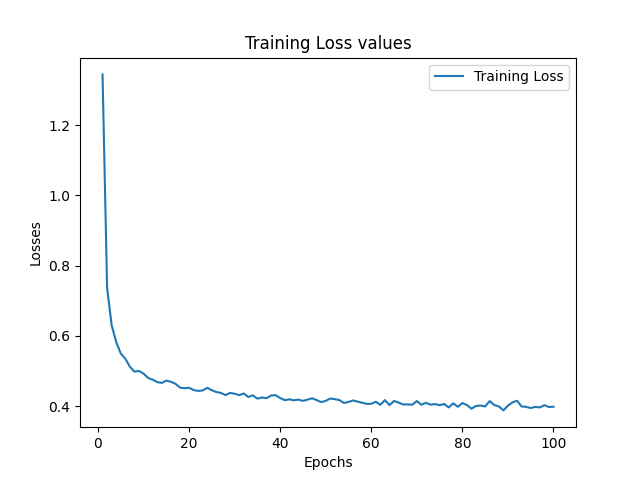
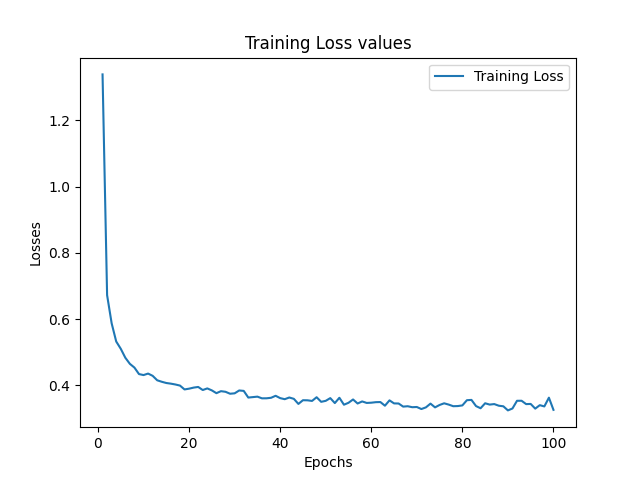
Updated results. Got EMNIST working with the project. Needed to make custom ImageFolder to read numerically instead of lexicographically.

diff --git a/train_lenet.py b/train_lenet.py
@@ -44,13 +44,13 @@ def get_dataloaders(Data_Set_Type, train_download_path, test_download_path, vali
     '''
     ds_test = Data_Set_Type(test_download_path, download=True, train = False, transform=MNIST_TRANSFORM) \
                 if split == None else \
-                Data_Set_Type(test_download_path, download=True, train = False, split = split, transform=MNIST_TRANSFORM)
+                Data_Set_Type(test_download_path, download=True, train = False, split = split, transform=EMNIST_TRANSFORM)
 
     dl_test = DataLoader(ds_test, batch_size=MNIST_BATCH_SIZE, shuffle = False, num_workers = 4)
 
-    ds_train = Data_Set_Type(train_download_path, download=True, transform=MNIST_TRANSFORM) \
+    ds_train = Data_Set_Type(train_download_path, download=True, train = True, transform=MNIST_TRANSFORM) \
                 if split == None else \
-                Data_Set_Type(train_download_path, download=True, split = split, transform=MNIST_TRANSFORM)    
+                Data_Set_Type(train_download_path, download=True, train = True, split = split, transform=EMNIST_TRANSFORM)    
 
     ds_valid = None
     if validate:
@@ -67,7 +67,7 @@ def get_dataloaders(Data_Set_Type, train_download_path, test_download_path, vali
     return dl_train, dl_valid, dl_test, ds_name
 
 def run_trad_lenet(dl_train, dl_valid, dl_test, save_path, save_visual_name, ds_name, num_classes,
-                 early_stopping = False, validate = False, pad_first_conv = True):
+                 early_stopping = False, validate = False, pad_first_conv = True, add_normalization = False):
     """
     Args: 
     - dl_train: data loader instance with our training information.
@@ -80,6 +80,7 @@ def run_trad_lenet(dl_train, dl_valid, dl_test, save_path, save_visual_name, ds_
     - validate: should the model perform validation after each epoch
     - pad_first_conv: boolean to determine if the first convolution layer should be padded or not. If
             the first convolution layer is padded, then an additional pooling layer is added.
+    - add_normalization: boolean to determine if dropout should be used in the linear layers
     """
     model = LeNet_5(dl_train, 
                     dl_valid,
@@ -89,7 +90,8 @@ def run_trad_lenet(dl_train, dl_valid, dl_test, save_path, save_visual_name, ds_
                     Tanh,
                     save_path,
                     pad_first_conv=pad_first_conv,
-                    early_stopping=early_stopping
+                    early_stopping=early_stopping,
+                    add_normalization=add_normalization
      )
 
     model.to(device)
@@ -99,7 +101,7 @@ def run_trad_lenet(dl_train, dl_valid, dl_test, save_path, save_visual_name, ds_
 
 
 def run_modern_lenet(dl_train, dl_valid, dl_test, save_path, save_visual_name, ds_name, num_classes,
-                     early_stopping = False, validate = False, pad_first_conv = False):
+                     early_stopping = False, validate = False, pad_first_conv = False, add_normalization = True):
     """
     Args: 
     - dl_train: data loader instance with our training information.
@@ -111,6 +113,8 @@ def run_modern_lenet(dl_train, dl_valid, dl_test, save_path, save_visual_name, d
     - early_stopping: should the model stop training early if validation loss increases.
     - validate: should the model perform validation after each epoch
     - pad_first_conv: boolean to determine if the first convolution layer should be padded or not. If
+            the first convolution layer is padded, then an additional pooling layer is added.
+    - add_normalization: boolean to determine if dropout should be used in the linear layers
     """ 
      
     model = LeNet_5(dl_train,
@@ -121,7 +125,8 @@ def run_modern_lenet(dl_train, dl_valid, dl_test, save_path, save_visual_name, d
                     ReLU,
                     save_path,
                     pad_first_conv=pad_first_conv,
-                    early_stopping=early_stopping
+                    early_stopping=early_stopping,
+                    add_normalization=add_normalization
     )
 
     model = model.to(device)
@@ -131,7 +136,7 @@ def run_modern_lenet(dl_train, dl_valid, dl_test, save_path, save_visual_name, d
 
 if __name__ == "__main__":
 
-    # For traditional LeNet with regular mnist
+    '''# For traditional LeNet with regular mnist
     dl_train, dl_valid, dl_test, ds_name = get_dataloaders(MNIST, MNIST_TRAIN_PATH, MNIST_TEST_PATH, False)
     run_trad_lenet(dl_train, 
                     dl_valid, 
@@ -150,7 +155,7 @@ if __name__ == "__main__":
                     TRAD_LENET_FASH_MNIST_PATH,
                     "Trad_LeNet_fash_mnist.png", 
                     ds_name,
-                     10)
+                     10)'''
 
     # For traditional LeNet with emnist
     dl_train, dl_valid, dl_test, ds_name = get_dataloaders(EMNIST, EMNIST_TRAIN_PATH, EMNIST_TEST_PATH, False, "balanced")
@@ -162,7 +167,7 @@ if __name__ == "__main__":
                     ds_name, 
                     47)
 
-    # For Modern LeNet with regular mnist
+    '''# For Modern LeNet with regular mnist
     dl_train, dl_valid, dl_test, ds_name = get_dataloaders(MNIST, MNIST_TRAIN_PATH, MNIST_TEST_PATH, False)
     run_modern_lenet(dl_train,
                     dl_valid, dl_test,
@@ -189,5 +194,5 @@ if __name__ == "__main__":
                     MOD_LENET_EMNIST_PATH,
                     "Modern_LeNet_emnist.png",
                     ds_name,
-                    47)
+                    47)'''
 

diff --git a/LeNet.py b/LeNet.py
@@ -2,6 +2,7 @@
 # Version: 12/6/2022
 
 import torch
+from torch.autograd import Variable
 from torch.nn import Linear, Conv2d, Sequential, Dropout
 from torch.nn import Module, Softmax, CrossEntropyLoss, Flatten
 from utils import device, MODELS_DIR
@@ -24,6 +25,7 @@ class LeNet_5(Module):
         - pooling_type: a reference (not instance) to the type of pooling layer to use (e.g. MaxPool2d, AvgPool2d).
         - activ_func: a reference (not instance) to the type of activation function to use.
         - save_path: file path to save this model after an epoch.
+        - add_normalization: boolean to determine if dropout is using in the linear layers.
         - pad_first_conv: boolean to determine if the first convolution layer should be padded or not. If
             the first convolution layer is padded, then an additional pooling layer is added.
         - early_stopping: should the model stop training early if validation loss increases.
@@ -40,22 +42,22 @@ class LeNet_5(Module):
             new_file_name = "early_" + save_path.split("\\")[-1]
             self._save_path = os.path.join(MODELS_DIR, new_file_name)
 
-        self.__init_model(Pooling_Type, Activ_Func_Type, pad_first_conv)
+        self.__init_model(Pooling_Type, Activ_Func_Type, pad_first_conv, add_normalization)
 
-    def __init_model(self, Pooling_Type, Activ_Fun, pad_first_conv): 
+    def __init_model(self, Pooling_Type, Activ_Fun, pad_first_conv, add_normalization): 
         
         first_padding = 2 if pad_first_conv else 0
-
+        
         conv_1 = Conv2d(in_channels=1, out_channels=6, kernel_size=5, padding = first_padding, stride = 1)
-        torch.nn.init.xavier_uniform_(conv_1.weight)
+        torch.nn.init.xavier_normal_(conv_1.weight)
         torch.nn.init.zeros_(conv_1.bias)
 
         conv_2 = Conv2d(in_channels=6, out_channels=16, kernel_size = 5, padding = 0, stride = 1)
-        torch.nn.init.xavier_uniform_(conv_2.weight)
+        torch.nn.init.xavier_normal_(conv_2.weight)
         torch.nn.init.zeros_(conv_2.bias)
 
         conv_3 = Conv2d(in_channels=16, out_channels=120, kernel_size = 5, padding = 0, stride = 1)
-        torch.nn.init.xavier_uniform_(conv_3.weight)
+        torch.nn.init.xavier_normal_(conv_3.weight)
         torch.nn.init.zeros_(conv_3.bias)
 
         self._cnn_layers = Sequential(
@@ -73,24 +75,25 @@ class LeNet_5(Module):
             self._cnn_layers.append(Pooling_Type(kernel_size = 2, stride = 1))
 
         linear_1 = Linear(120, out_features=84)
-        torch.nn.init.xavier_uniform_(linear_1.weight)
+        torch.nn.init.xavier_normal_(linear_1.weight)
         torch.nn.init.zeros_(linear_1.bias)
 
         linear_2 = Linear(84, out_features=self._num_classes)
-        torch.nn.init.xavier_uniform_(linear_2.weight)
+        torch.nn.init.xavier_normal_(linear_2.weight)
         torch.nn.init.zeros_(linear_2.bias)
 
         self._linear_layers = Sequential(
             Flatten(),
             linear_1,
-            Dropout(),
-            Activ_Fun(),
-            linear_2, 
+            Activ_Fun(), 
         )
+
+        if add_normalization:
+            self._linear_layers.append(Dropout())
+        self._linear_layers.append(linear_2)
 
         if not isinstance(self._loss_function, CrossEntropyLoss):
             self._linear_layers.append(Softmax(dim = -1))
-
 
     def set_optimizer(self, optimizer): 
         self._optimizer = optimizer
@@ -109,7 +112,7 @@ class LeNet_5(Module):
             train_loss = self.__train()
             train_losses.append(train_loss)
 
-            if validate:
+            if validate and self._valid_loader != None:
                 valid_loss = self.__validate()
                 valid_losses.append(valid_loss)
 
@@ -124,18 +127,16 @@ class LeNet_5(Module):
 
     def __train(self):
         training_loss = 0
-        self.train(True)
+        self.train()
         for data, labels in self._train_loader:
-            self.train()
-            data = data.to(device)
+            data = Variable(data).to(device)
             if not isinstance(self._loss_function, CrossEntropyLoss):
                 labels = F.one_hot(labels, num_classes = self._num_classes).float()
-            labels = labels.to(device)
+            labels = Variable(labels).to(device)
 
             self._optimizer.zero_grad()
             output = self(data)
             loss = self._loss_function(output, labels)
-
             loss.backward()
             self._optimizer.step()
             training_loss += loss.item()
@@ -147,8 +148,8 @@ class LeNet_5(Module):
         self.eval()
 
         for data, labels in self._valid_loader:
-            data = data.to(device)
-            labels = labels.to(device)
+            data = Variable(data).to(device)
+            labels = Variable(labels).to(device)
 
             with torch.no_grad():
                 output = self(data)

diff --git a/evaluate_recons.py b/evaluate_recons.py
@@ -6,12 +6,12 @@ import numpy as np
 from utils import *
 from torch.utils.data import DataLoader
 from torchvision import transforms
-from torchvision.datasets import ImageFolder
 import os
 import torch
 from sklearn.metrics import confusion_matrix
 import torchattacks
 from tqdm import tqdm
+from numeric_image_folder import NumericImageFolder
 
 transform = transforms.Compose(
         [
@@ -75,14 +75,14 @@ def eval_model(model_save_path, model_name, dataset):
     ds_name = dataset.split("\\")[-1]
 
     for root in tqdm(recon_root_names):
-        ds_test = ImageFolder(os.path.join(dataset, root), transform=transform)
+        ds_test = NumericImageFolder(os.path.join(dataset, root), transform=transform)
         dl_test = DataLoader(ds_test, batch_size=MNIST_BATCH_SIZE, shuffle = False, num_workers = 4)
         evaluate_dataset(lenet_model, model_name, dl_test, ds_name, root)
 
     fgsm_attack = torchattacks.FGSM(lenet_model)
 
     for root in tqdm(recon_root_names):
-        ds_test = ImageFolder(os.path.join(dataset, root), transform=transform)
+        ds_test = NumericImageFolder(os.path.join(dataset, root), transform=transform)
         dl_test = DataLoader(ds_test, batch_size=MNIST_BATCH_SIZE, shuffle = False, num_workers = 4)
         evaluate_dataset(lenet_model, model_name, dl_test, ds_name, root, fgsm_attack)
     

diff --git a/utils.py b/utils.py
@@ -12,6 +12,7 @@ from torchvision.utils import make_grid
 from torch.utils.data import Dataset
 import pandas as pd
 from torchvision import transforms
+import torchvision.transforms.functional as TF
 
 device = torch.device("cuda" if torch.cuda.is_available() else "cpu")
 LAYER_NAMES = ["Layer 0", "Layer 1", "Layer 2", "Layer 3", "Layer 4 Final"]
@@ -56,6 +57,7 @@ MOD_LENET_EMNIST_PATH = os.path.join(MODELS_DIR, "mod_lenet_emnist.pt")
 ACCURACY_OUTPUT_FILE = os.path.join(CWD, "classification_accuracies.csv")
 ACCURACY_FILE_COLS = ["Model", "Dataset", "Reconstruction", "Attack", "Average Accuracy"] 
 VISUAL_DIR = os.path.join(CWD, "Visuals")
+MNIST_BATCH_SIZE = 512
 
 MNIST_TRANSFORM = transforms.Compose([
     transforms.Resize(32),
@@ -63,7 +65,20 @@ MNIST_TRANSFORM = transforms.Compose([
     transforms.ToTensor()
 ])
 
-MNIST_BATCH_SIZE = 512
+def hflip_image(img): 
+    return TF.hflip(img)
+
+def rotate_image(img):
+    return TF.rotate(img, -90)
+
+
+EMNIST_TRANSFORM = transforms.Compose([
+    transforms.Lambda(rotate_image),
+    transforms.Lambda(hflip_image),
+    transforms.Resize(32),
+    transforms.CenterCrop(32),
+    transforms.ToTensor()
+])
 
 
 def add_accuracy_results(model_name, dataset_name, reconstruction, attack_name, avg_accuracy):

diff --git a/numeric_image_folder.py b/numeric_image_folder.py
@@ -1,0 +1,27 @@
+from torchvision.datasets.folder import default_loader
+from torchvision.datasets import ImageFolder
+
+class NumericImageFolder(ImageFolder):
+    '''This Custom Image Folder gives each class an index
+    depending on its numerical order instead of lexicographic order.
+    This class assumes the dataset classes are labeled as non-negative integers'''
+    def __init__(self, root, transform = None, target_transform = None,
+                loader = default_loader, is_valid_file = None):
+        super(NumericImageFolder, self).__init__(root,
+                                                transform=transform, 
+                                                target_transform=target_transform,
+                                                loader = loader,
+                                                is_valid_file=is_valid_file) 
+
+
+    def find_classes(self, directory): 
+        classes, class_to_idx = super(NumericImageFolder, self).find_classes(directory)
+        for cls_num in class_to_idx.keys():
+            class_to_idx[cls_num] = int(cls_num)
+
+        return classes, class_to_idx
+
+
+
+    
+

diff --git a/hqa_main.py b/hqa_main.py
@@ -21,13 +21,13 @@ def main(download_train_path, download_test_path, model_name, model_save_path, i
     
     ds_train = Dataset_Type(download_train_path, download=True, transform=MNIST_TRANSFORM) \
                 if split == None else \
-                Dataset_Type(download_train_path, download=True, transform=MNIST_TRANSFORM, split = split)
+                Dataset_Type(download_train_path, download=True, transform=EMNIST_TRANSFORM, split = split)
     dl_train = DataLoader(ds_train, batch_size=MNIST_BATCH_SIZE, shuffle=True, num_workers=4)
     
     
     ds_test = Dataset_Type(download_test_path, download=True, train=False, transform=MNIST_TRANSFORM) \
                 if split == None else \
-                Dataset_Type(download_test_path, download=True, train=False, transform=MNIST_TRANSFORM, split = split)
+                Dataset_Type(download_test_path, download=True, train=False, transform=EMNIST_TRANSFORM, split = split)
 
     dl_test = DataLoader(ds_test, batch_size=MNIST_BATCH_SIZE, num_workers=4)
     test_x, _ = next(iter(dl_test))

diff --git a/training.py b/training.py
@@ -6,7 +6,7 @@ from utils import get_bit_usage, device, LAYER_NAMES
 from r_adam import RAdam
 from scheduler import FlatCA
 import os
-from hqa import HQA
+from hqa import HQA, VQCodebook
 from torch.nn.utils import clip_grad_norm_
 
 
